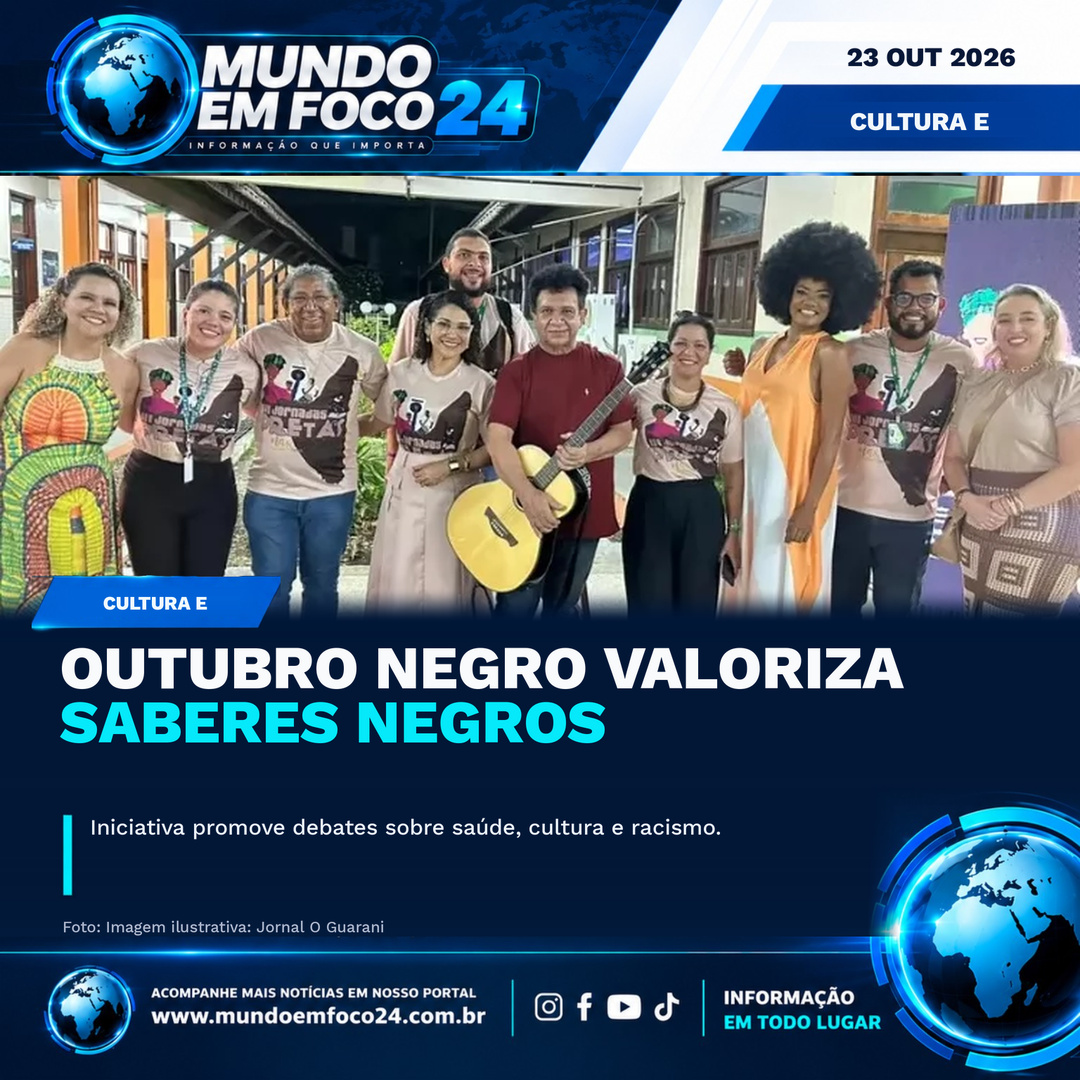
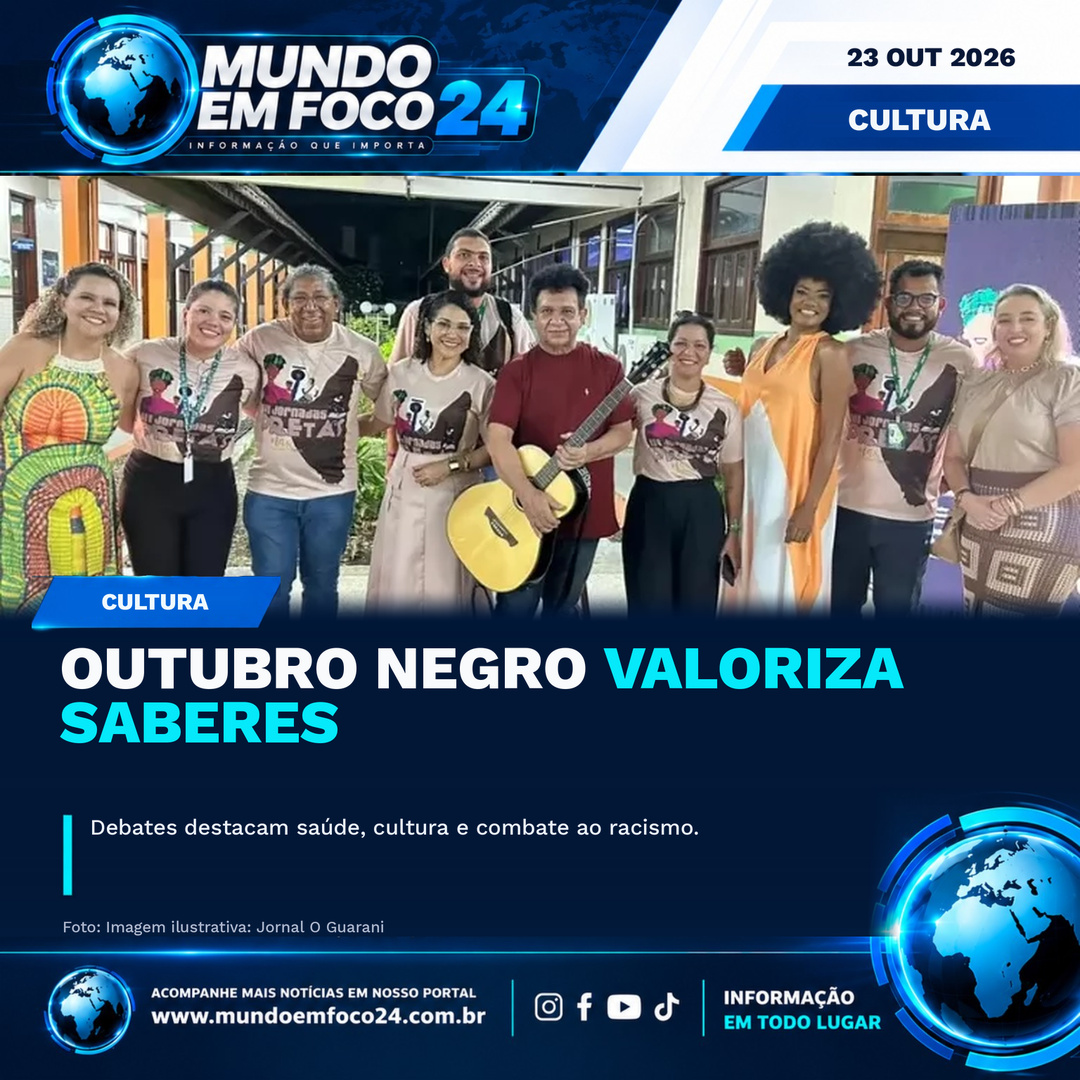
chore: publish Mundo em Foco 24 portal and branded art

diff --git a/share/outubro-negro-saude-saberes-e-protagonismo-negro-23-10-2026.html b/share/outubro-negro-saude-saberes-e-protagonismo-negro-23-10-2026.html
@@ -1,0 +1,1 @@
+<!doctype html><html lang="pt-BR"><head><meta charset="utf-8"><meta name="viewport" content="width=device-width,initial-scale=1"><title>Outubro Negro valoriza saberes | Mundo em Foco 24</title><meta name="description" content="Debates destacam saúde, cultura e combate ao racismo."><link rel="canonical" href="https://filipemelo1994-del.github.io/Mundo-em-foco-24-m-dia-/noticia.html?id=outubro-negro-saude-saberes-e-protagonismo-negro-23-10-2026"><meta property="og:type" content="article"><meta property="og:site_name" content="Mundo em Foco 24"><meta property="og:title" content="Outubro Negro valoriza saberes"><meta property="og:description" content="Debates destacam saúde, cultura e combate ao racismo."><meta property="og:image" content="https://www.jornaloguarani.com/noticias/7a1e2f5480b6da376f5c417c04802717.webp"><meta property="og:image:alt" content="Outubro Negro valoriza saberes"><meta property="og:url" content="https://filipemelo1994-del.github.io/Mundo-em-foco-24-m-dia-/share/outubro-negro-saude-saberes-e-protagonismo-negro-23-10-2026.html"><meta name="twitter:card" content="summary_large_image"><meta name="twitter:title" content="Outubro Negro valoriza saberes"><meta name="twitter:description" content="Debates destacam saúde, cultura e combate ao racismo."><meta name="twitter:image" content="https://www.jornaloguarani.com/noticias/7a1e2f5480b6da376f5c417c04802717.webp"><meta http-equiv="refresh" content="0;url=https://filipemelo1994-del.github.io/Mundo-em-foco-24-m-dia-/noticia.html?id=outubro-negro-saude-saberes-e-protagonismo-negro-23-10-2026"><script>location.replace("https://filipemelo1994-del.github.io/Mundo-em-foco-24-m-dia-/noticia.html?id=outubro-negro-saude-saberes-e-protagonismo-negro-23-10-2026")</script></head><body><p>Abrindo matéria no Mundo em Foco 24…</p><a href="https://filipemelo1994-del.github.io/Mundo-em-foco-24-m-dia-/noticia.html?id=outubro-negro-saude-saberes-e-protagonismo-negro-23-10-2026">Continuar</a></body></html>
